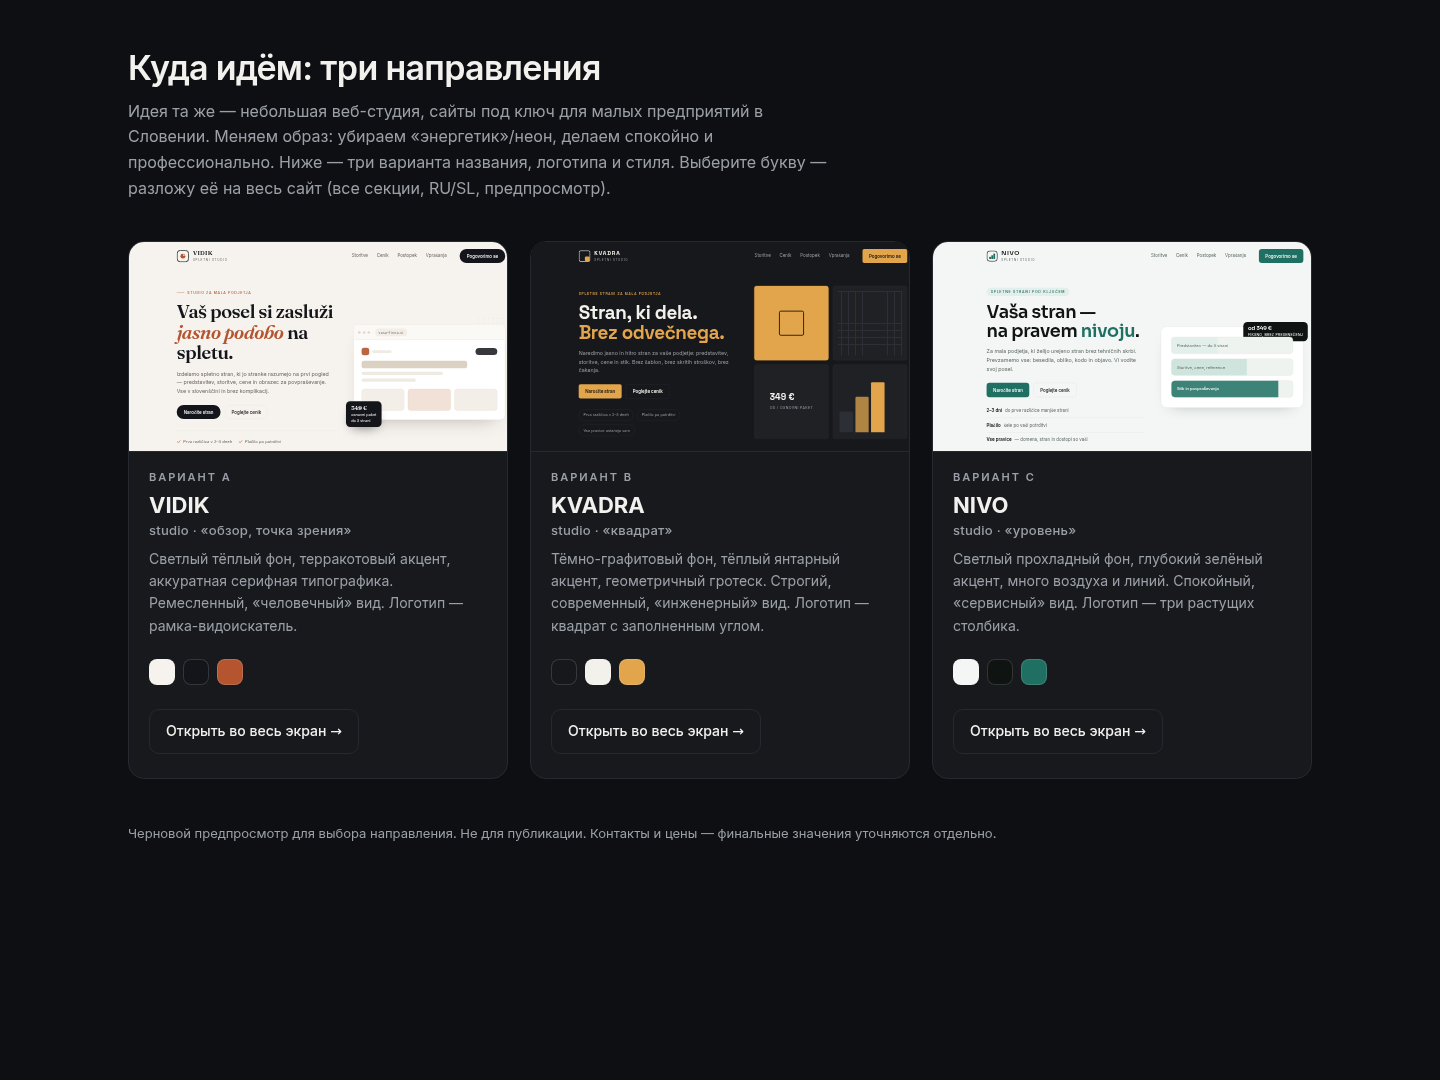
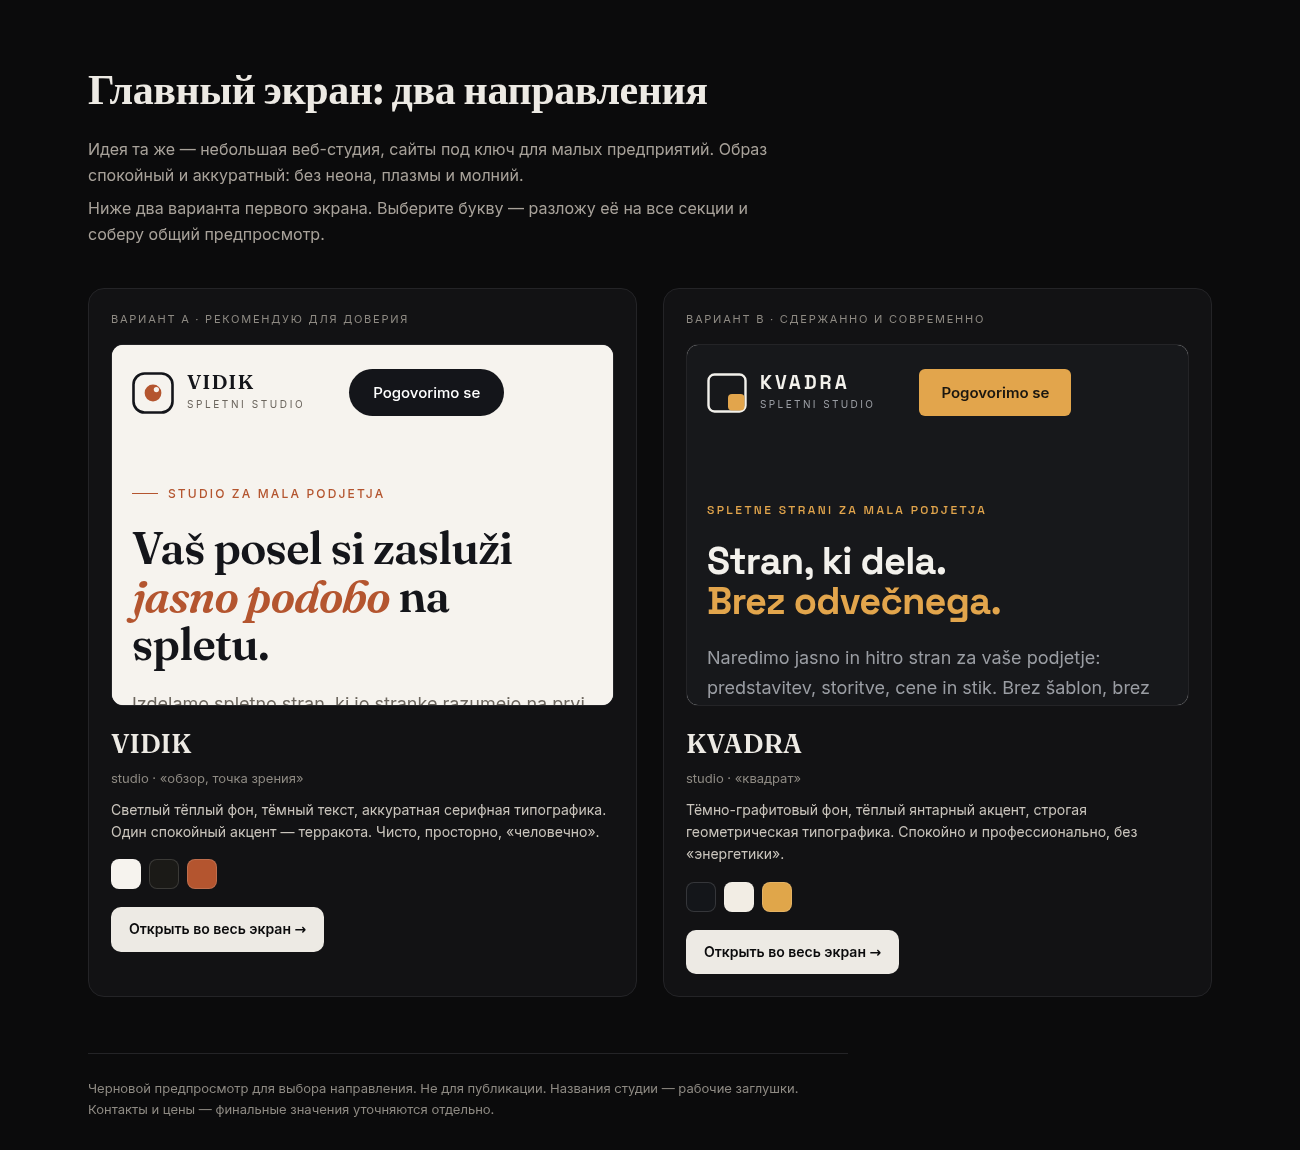
studio-v2: show two calm hero directions (A/B)

Changed region(s): [[0.0615, 0.0306, 0.9231, 0.8556], [0.0615, 0.9472, 0.4, 0.9778], [0.4, 0.2139, 0.4308, 0.2444]]

diff --git a/studio-v2/options.html b/studio-v2/options.html
@@ -1,66 +1,56 @@
 <!doctype html>
 <html lang="ru"><head><meta charset="utf-8"><meta name="viewport" content="width=device-width,initial-scale=1">
 <meta name="robots" content="noindex,nofollow">
-<title>Студия — выбор направления дизайна</title>
+<title>Студия — выбор направления (2 варианта)</title>
 <link rel="preconnect" href="https://fonts.googleapis.com"><link rel="preconnect" href="https://fonts.gstatic.com" crossorigin>
-<link href="https://fonts.googleapis.com/css2?family=Inter:wght@400;500;600;700&display=swap" rel="stylesheet">
+<link href="https://fonts.googleapis.com/css2?family=Inter:wght@400;500;600&family=Fraunces:ital,opsz,wght@0,9..144,400;0,9..144,600;1,9..144,400&display=swap" rel="stylesheet">
 <style>
-:root{--bg:#0E0F12;--card:#17191D;--line:#26292F;--ink:#F2F1EE;--muted:#9BA0A8;--a:#B4552F;--b:#E2A54C;--c:#1F6F63}
 *{box-sizing:border-box}
-body{margin:0;background:var(--bg);color:var(--ink);font:400 16px/1.6 Inter,system-ui,sans-serif}
-.wrap{max-width:1240px;margin:0 auto;padding:48px 28px 80px}
-h1{font:600 34px/1.2 Inter,sans-serif;letter-spacing:-.02em;margin:0 0 10px}
-p.lead{color:var(--muted);max-width:70ch;margin:0 0 40px}
-.grid{display:grid;grid-template-columns:repeat(3,1fr);gap:22px}
-.card{background:var(--card);border:1px solid var(--line);border-radius:16px;overflow:hidden;display:flex;flex-direction:column}
-.shot{position:relative;height:210px;overflow:hidden;background:#000;border-bottom:1px solid var(--line)}
-.shot iframe{width:1440px;height:1000px;border:0;transform:scale(.2944);transform-origin:top left;position:absolute;left:0;top:0}
-.meta{padding:20px 20px 24px;display:flex;flex-direction:column;gap:10px;flex:1}
-.tag{font:600 11px/1 Inter,sans-serif;letter-spacing:.18em;text-transform:uppercase;color:var(--muted)}
-.name{font:700 22px/1.1 Inter,sans-serif}
-.name i{font-style:normal;font-size:13px;color:var(--muted);font-weight:500;display:block;margin-top:6px;letter-spacing:.02em}
-.meta p{margin:0;color:var(--muted);font-size:14px}
-.pal{display:flex;gap:8px;margin-top:auto;padding-top:12px}
-.pal span{width:26px;height:26px;border-radius:8px;border:1px solid rgba(255,255,255,.14)}
-.open{margin-top:14px;display:inline-flex;align-items:center;gap:8px;align-self:flex-start;color:var(--ink);text-decoration:none;font-size:14px;font-weight:500;border:1px solid var(--line);border-radius:10px;padding:10px 16px}
-.open:hover{border-color:#4a4f58}
-footer{margin-top:44px;color:var(--muted);font-size:13px}
-@media(max-width:900px){.grid{grid-template-columns:1fr}.shot{height:190px}.shot iframe{transform:scale(.24)}}
+body{margin:0;background:#0B0B0C;color:#EDEAE4;font:15px/1.6 Inter,system-ui,-apple-system,sans-serif}
+main{max-width:1180px;margin:0 auto;padding:56px 28px 80px}
+h1{font-family:Fraunces,Georgia,serif;font-weight:600;font-size:clamp(26px,3.4vw,42px);letter-spacing:-.01em;margin:0 0 14px}
+p.lead{color:#A8A29A;max-width:720px;margin:0 0 8px;font-size:16px}
+.grid{display:grid;grid-template-columns:repeat(2,1fr);gap:26px;margin-top:40px}
+.card{background:#121214;border:1px solid #242427;border-radius:16px;padding:22px;display:flex;flex-direction:column}
+.tag{font-size:11px;letter-spacing:.16em;text-transform:uppercase;color:#8E8A83;margin-bottom:16px}
+.frame{border:1px solid #242427;border-radius:12px;overflow:hidden;background:#0B0B0C}
+.frame iframe{display:block;width:100%;height:360px;border:0;background:#fff}
+h2{font-family:Fraunces,Georgia,serif;font-weight:600;font-size:26px;margin:18px 0 2px}
+.sub{color:#8E8A83;font-size:13px;margin:0 0 10px}
+.desc{color:#C9C4BC;font-size:14px;margin:0 0 16px}
+.sw{display:flex;gap:8px;margin-bottom:18px}
+.sw span{width:30px;height:30px;border-radius:8px;border:1px solid rgba(255,255,255,.14);display:block}
+.btn{display:inline-block;text-decoration:none;color:#0B0B0C;background:#EDEAE4;border-radius:10px;padding:11px 18px;font-weight:600;font-size:14px;align-self:flex-start}
+.btn:hover{background:#fff}
+footer{margin-top:56px;padding-top:24px;border-top:1px solid #242427;color:#8E8A83;font-size:13px;max-width:760px}
+@media(max-width:860px){.grid{grid-template-columns:1fr}main{padding:36px 18px 60px}.frame iframe{height:300px}}
 </style></head>
-<body><div class="wrap">
-<h1>Куда идём: три направления</h1>
-<p class="lead">Идея та же — небольшая веб-студия, сайты под ключ для малых предприятий в Словении. Меняем образ: убираем «энергетик»/неон, делаем спокойно и профессионально. Ниже — три варианта названия, логотипа и стиля. Выберите букву — разложу её на весь сайт (все секции, RU/SL, предпросмотр).</p>
+<body><main>
+<h1>Главный экран: два направления</h1>
+<p class="lead">Идея та же — небольшая веб-студия, сайты под ключ для малых предприятий. Образ спокойный и аккуратный: без неона, плазмы и молний.</p>
+<p class="lead">Ниже два варианта первого экрана. Выберите букву — разложу её на все секции и соберу общий предпросмотр.</p>
+
 <div class="grid">
-  <div class="card">
-    <div class="shot"><iframe src="a-vidik/index.html" loading="lazy"></iframe></div>
-    <div class="meta">
-      <span class="tag">Вариант A</span>
-      <div class="name">VIDIK <i>studio · «обзор, точка зрения»</i></div>
-      <p>Светлый тёплый фон, терракотовый акцент, аккуратная серифная типографика. Ремесленный, «человечный» вид. Логотип — рамка-видоискатель.</p>
-      <div class="pal"><span style="background:#F6F3EE"></span><span style="background:#14151A"></span><span style="background:#B4552F"></span></div>
-      <a class="open" href="a-vidik/index.html">Открыть во весь экран →</a>
-    </div>
-  </div>
-  <div class="card">
-    <div class="shot"><iframe src="b-kvadra/index.html" loading="lazy"></iframe></div>
-    <div class="meta">
-      <span class="tag">Вариант B</span>
-      <div class="name">KVADRA <i>studio · «квадрат»</i></div>
-      <p>Тёмно-графитовый фон, тёплый янтарный акцент, геометричный гротеск. Строгий, современный, «инженерный» вид. Логотип — квадрат с заполненным углом.</p>
-      <div class="pal"><span style="background:#17181B"></span><span style="background:#F3F1EC"></span><span style="background:#E2A54C"></span></div>
-      <a class="open" href="b-kvadra/index.html">Открыть во весь экран →</a>
-    </div>
-  </div>
-  <div class="card">
-    <div class="shot"><iframe src="c-nivo/index.html" loading="lazy"></iframe></div>
-    <div class="meta">
-      <span class="tag">Вариант C</span>
-      <div class="name">NIVO <i>studio · «уровень»</i></div>
-      <p>Светлый прохладный фон, глубокий зелёный акцент, много воздуха и линий. Спокойный, «сервисный» вид. Логотип — три растущих столбика.</p>
-      <div class="pal"><span style="background:#F3F6F4"></span><span style="background:#0F1412"></span><span style="background:#1F6F63"></span></div>
-      <a class="open" href="c-nivo/index.html">Открыть во весь экран →</a>
-    </div>
-  </div>
+  <section class="card">
+    <div class="tag">Вариант A · рекомендую для доверия</div>
+    <div class="frame"><iframe src="a-vidik/index.html" title="Вариант A — VIDIK" loading="lazy"></iframe></div>
+    <h2>VIDIK</h2>
+    <p class="sub">studio · «обзор, точка зрения»</p>
+    <p class="desc">Светлый тёплый фон, тёмный текст, аккуратная серифная типографика. Один спокойный акцент — терракота. Чисто, просторно, «человечно».</p>
+    <div class="sw"><span style="background:#F6F3EE"></span><span style="background:#1B1A17"></span><span style="background:#B4552F"></span></div>
+    <a class="btn" href="a-vidik/index.html" target="_blank" rel="noopener">Открыть во весь экран →</a>
+  </section>
+
+  <section class="card">
+    <div class="tag">Вариант B · сдержанно и современно</div>
+    <div class="frame"><iframe src="b-kvadra/index.html" title="Вариант B — KVADRA" loading="lazy"></iframe></div>
+    <h2>KVADRA</h2>
+    <p class="sub">studio · «квадрат»</p>
+    <p class="desc">Тёмно-графитовый фон, тёплый янтарный акцент, строгая геометрическая типографика. Спокойно и профессионально, без «энергетики».</p>
+    <div class="sw"><span style="background:#14161A"></span><span style="background:#F2EDE4"></span><span style="background:#E0A64A"></span></div>
+    <a class="btn" href="b-kvadra/index.html" target="_blank" rel="noopener">Открыть во весь экран →</a>
+  </section>
 </div>
-<footer>Черновой предпросмотр для выбора направления. Не для публикации. Контакты и цены — финальные значения уточняются отдельно.</footer>
-</div></body></html>
+
+<footer>Черновой предпросмотр для выбора направления. Не для публикации. Названия студии — рабочие заглушки. Контакты и цены — финальные значения уточняются отдельно.</footer>
+</main></body></html>
